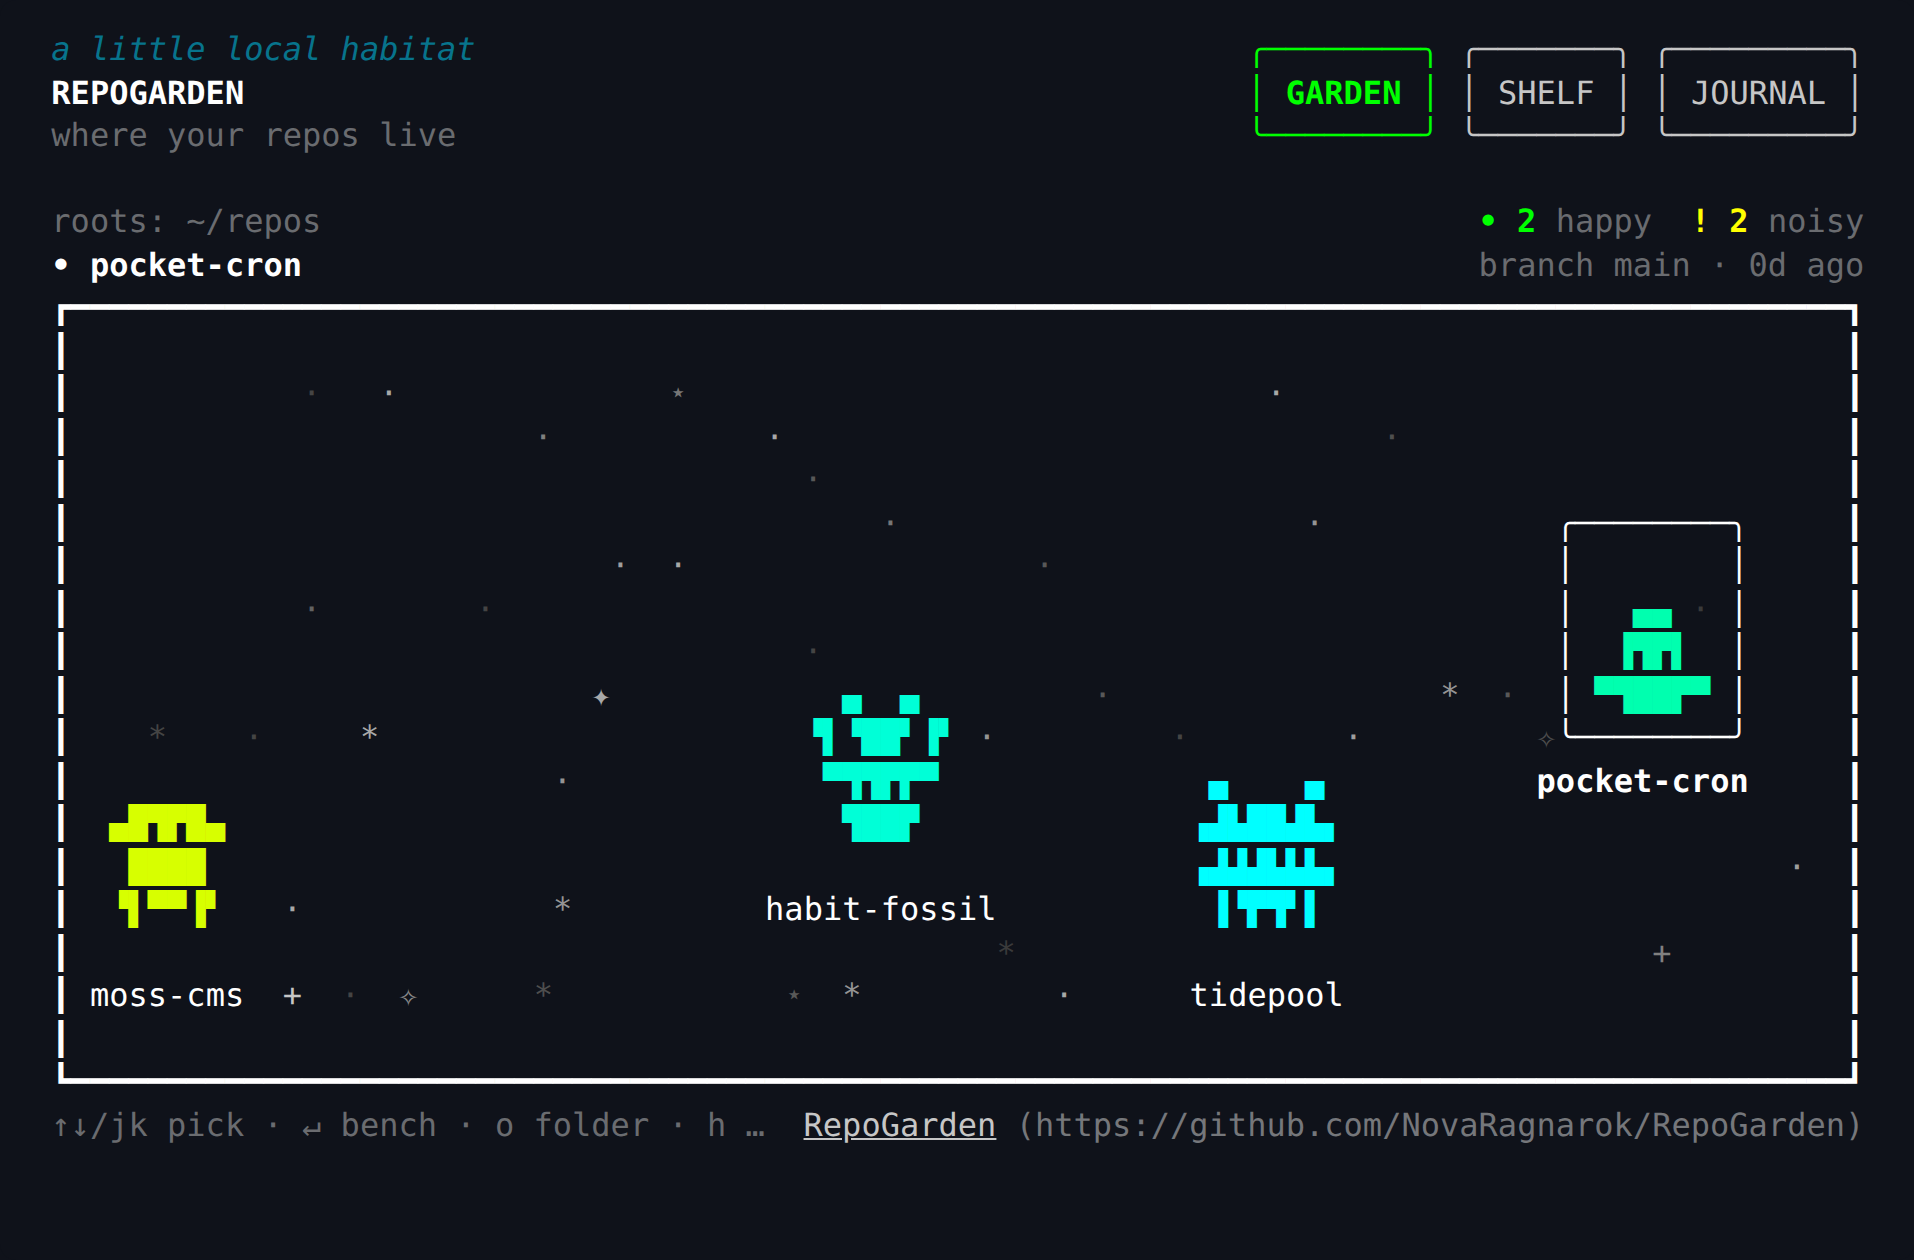
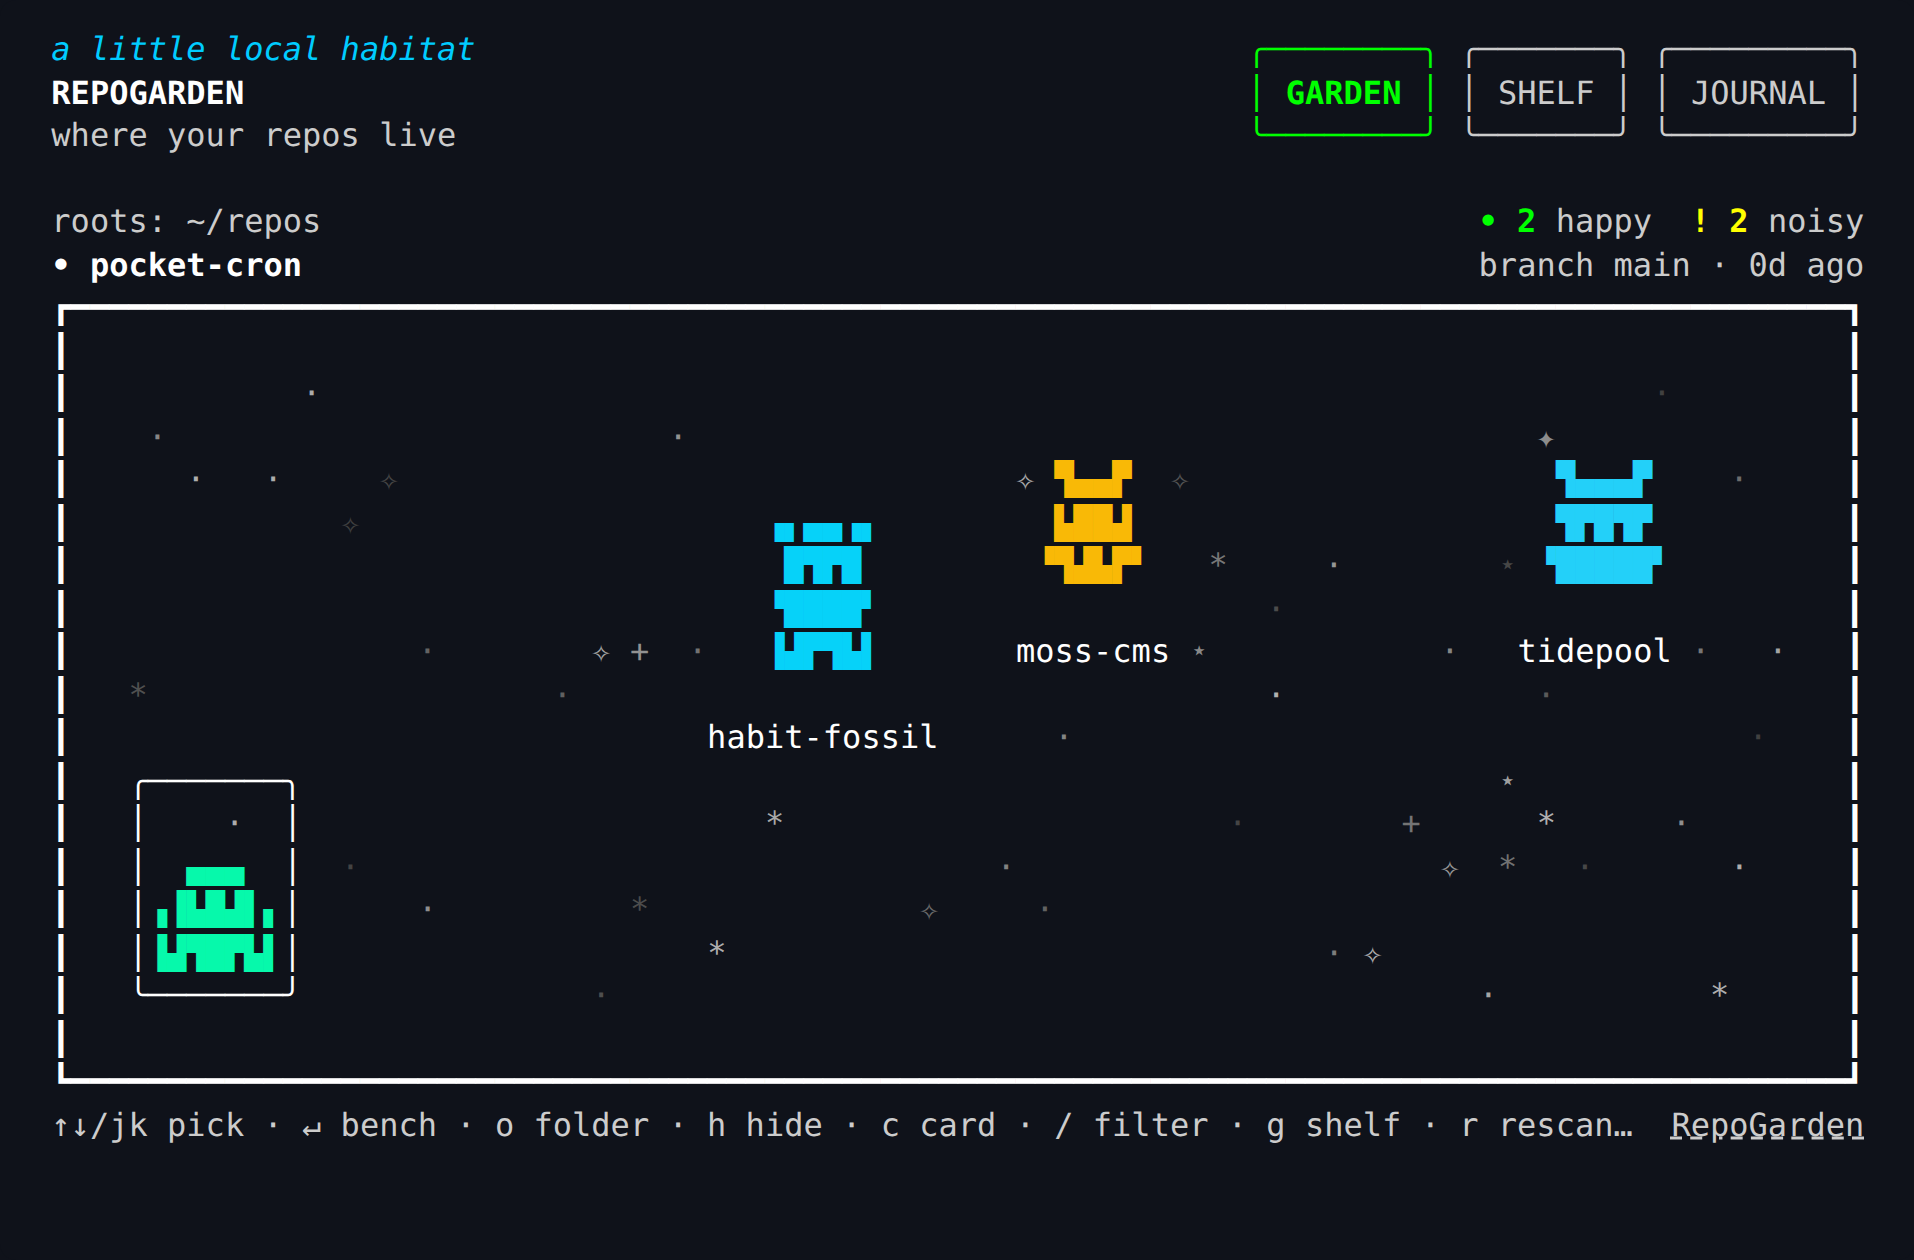
Suppress footer URL fallback and refresh preview

diff --git a/src/components/Credit.tsx b/src/components/Credit.tsx
@@ -8,7 +8,11 @@ export const Credit = () => {
   const theme = useTheme();
   return (
     <Box flexDirection="row">
-      <Link href="https://github.com/NovaRagnarok/RepoGarden" color={theme.colors.mutedForeground}>
+      <Link
+        href="https://github.com/NovaRagnarok/RepoGarden"
+        color={theme.colors.mutedForeground}
+        fallback={false}
+      >
         RepoGarden
       </Link>
     </Box>

diff --git a/README.md b/README.md
@@ -22,24 +22,24 @@ Each repo becomes a tiny pixel creature whose look reflects branch state, recenc
  • pocket-cron                                                             branch main · 0d ago
  ┏━━━━━━━━━━━━━━━━━━━━━━━━━━━━━━━━━━━━━━━━━━━━━━━━━━━━━━━━━━━━━━━━━━━━━━━━━━━━━━━━━━━━━━━━━━━━┓
  ┃                                                                                            ┃
- ┃            ·   ·              ⋆                              ·                             ┃
- ┃                        ·           ·                               ·                       ┃
- ┃                                      ·                                                     ┃
- ┃                                          ·                     ·            ╭────────╮     ┃
- ┃                            ·  ·                  ·                          │        │     ┃
- ┃            ·        ·                                                       │   ▄▄ · │     ┃
- ┃                                      ·                                      │  ▐▜▛▌  │     ┃
- ┃                           ✦            ▄  ▄         ·                 *  ·  │ ▀▜██▛▀ │     ┃
- ┃    *    ·     *                      ▝▌▝██▘▐▘ ·         ·        ·         ✧╰────────╯     ┃
- ┃                         ·             ▀▜▜▛▛▀              ▄    ▄           pocket-cron     ┃
- ┃  ▄█▜▛█▄                                ▜██▛              ▗▟▙██▟▙▖                          ┃
- ┃   ████                                                   ▗▟▟▟▙▙▙▖                       ·  ┃
- ┃  ▝▌▀▀▐▘   ·             *          habit-fossil           ▐▝▛▜▘▌                           ┃
- ┃                                                *                                 +         ┃
- ┃ moss-cms  +  ·  ✧      *            ⋆  *          ·      tidepool                          ┃
+ ┃            ·                                                                     ·         ┃
+ ┃    ·                          ·                                            ✦               ┃
+ ┃      ·   ·     ✧                                ✧ ▜▄▄▛  ✧                   ▜▄▄▄▛    ·     ┃
+ ┃              ✧                     ▗▖▄▄▗▖         ▙██▟                      ▜▛█▜▛          ┃
+ ┃                                     █▜▛█         ▝▜▟▙▛▘   *     ·        ⋆ ▝█████▘         ┃
+ ┃                                    ▝████▘                    ·                             ┃
+ ┃                  ·        ✧ +  ·   ▐▟▛▜▙▌       moss-cms ⋆            ·   tidepool ·   ·   ┃
+ ┃   *                     ·                                    ·             ·               ┃
+ ┃                                 habit-fossil      ·                                   ·    ┃
+ ┃   ╭───────╮                                                              ⋆                 ┃
+ ┃   │    ·  │                        *                       ·        +      *      ·        ┃
+ ┃   │  ▄▄▄  │  ·                                 ·                      ✧  *   ·       ·     ┃
+ ┃   │▗▐▙█▟▌▖│      ·          *              ✧     ·                                         ┃
+ ┃   │▐▟▜█▛▙▌│                     *                               · ✧                        ┃
+ ┃   ╰───────╯               ·                                             ·           *      ┃
  ┃                                                                                            ┃
  ┗━━━━━━━━━━━━━━━━━━━━━━━━━━━━━━━━━━━━━━━━━━━━━━━━━━━━━━━━━━━━━━━━━━━━━━━━━━━━━━━━━━━━━━━━━━━━┛
- ↑↓/jk pick · ↵ bench · o folder · h …  RepoGarden
+ ↑↓/jk pick · ↵ bench · o folder · h hide · c card · / filter · g shelf · r rescan…  RepoGarden
 ```
 
 </details>